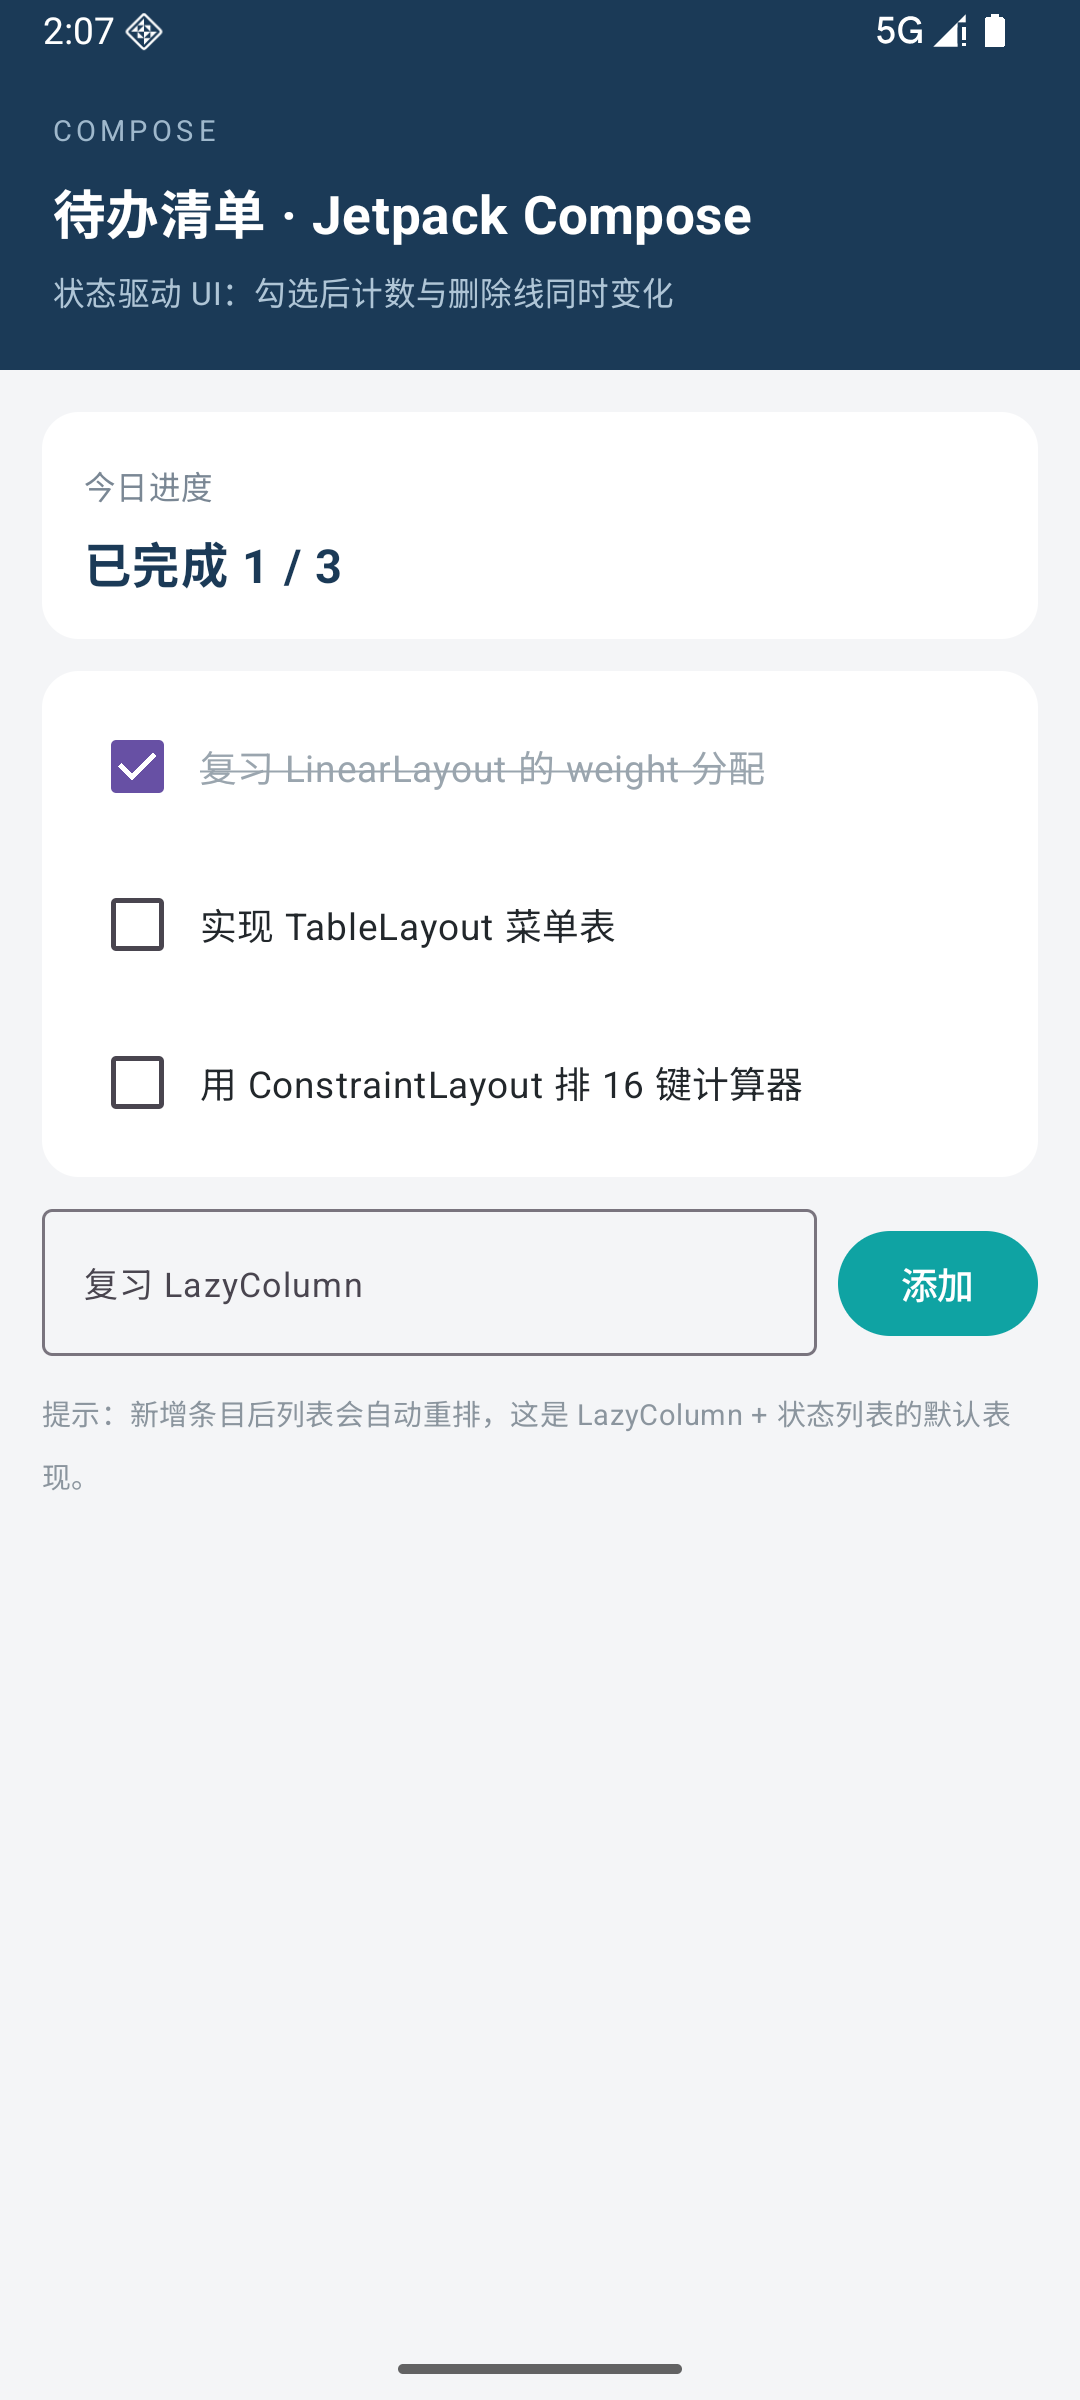
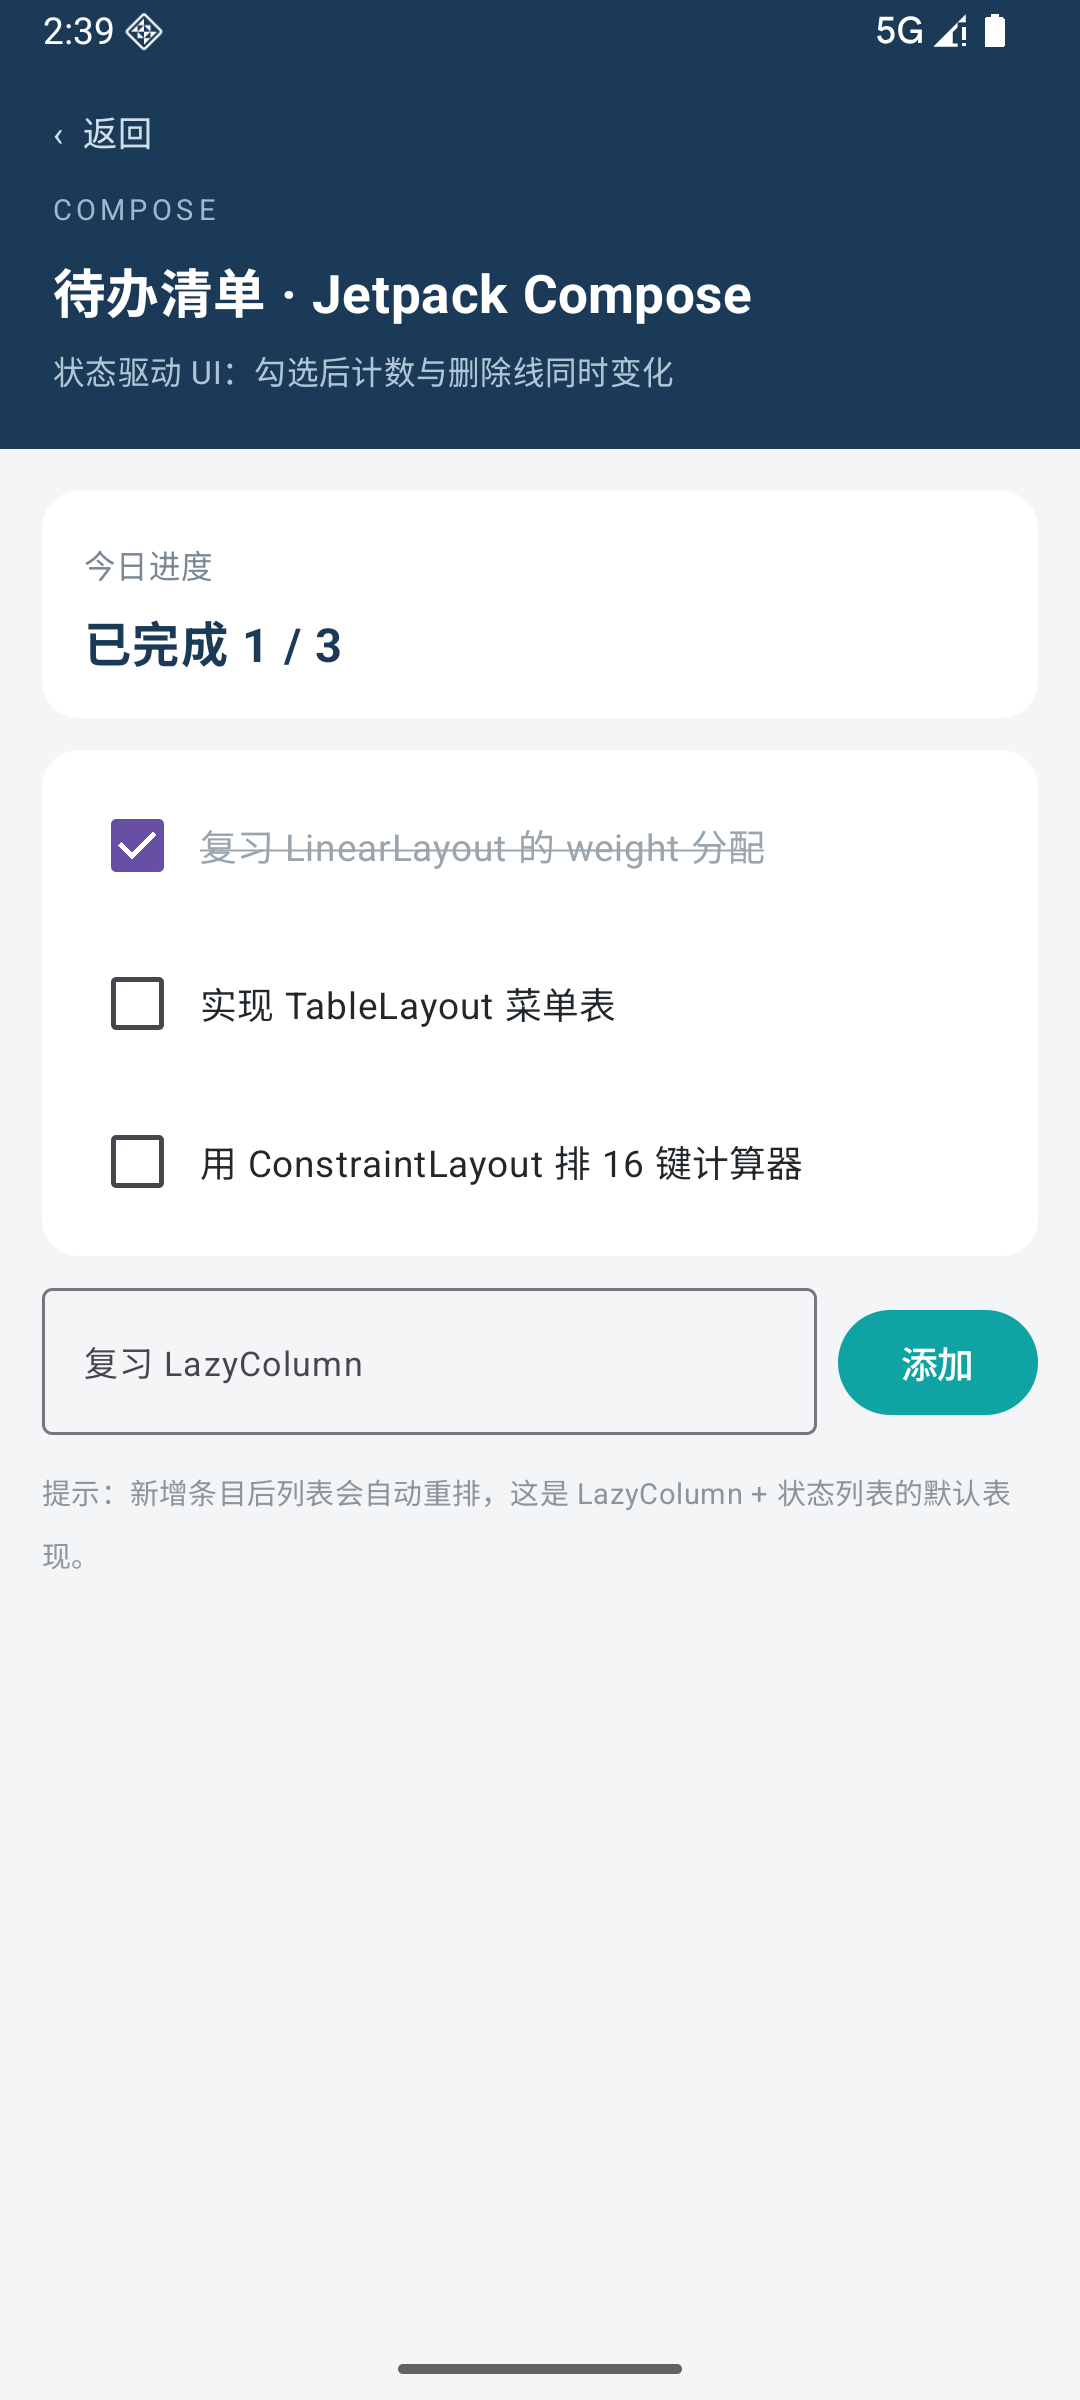
fix(lab2): Compose 页补上「‹ 返回」入口，更新截图

diff --git a/lab2-android-layout/app/src/main/java/com/example/lab2layout/TodoActivity.kt b/lab2-android-layout/app/src/main/java/com/example/lab2layout/TodoActivity.kt
@@ -4,6 +4,7 @@ import android.os.Bundle
 import androidx.activity.ComponentActivity
 import androidx.activity.compose.setContent
 import androidx.compose.foundation.background
+import androidx.compose.foundation.clickable
 import androidx.compose.foundation.layout.Arrangement
 import androidx.compose.foundation.layout.Box
 import androidx.compose.foundation.layout.Column
@@ -50,7 +51,7 @@ class TodoActivity : ComponentActivity() {
         super.onCreate(savedInstanceState)
         setContent {
             MaterialTheme {
-                TodoScreen()
+                TodoScreen(onBack = { finish() })
             }
         }
     }
@@ -62,7 +63,7 @@ private data class TodoItem(
 )
 
 @Composable
-fun TodoScreen() {
+fun TodoScreen(onBack: () -> Unit = {}) {
     val todos = remember {
         mutableStateListOf(
             TodoItem("复习 LinearLayout 的 weight 分配", true),
@@ -87,6 +88,13 @@ fun TodoScreen() {
                 .statusBarsPadding()
                 .padding(start = 20.dp, end = 20.dp, top = 14.dp, bottom = 18.dp)
         ) {
+            Text(
+                text = "‹  返回",
+                color = Color(0xFFCFE0EC),
+                fontSize = 13.sp,
+                modifier = Modifier.clickable(onClick = onBack)
+            )
+            Spacer(Modifier.height(6.dp))
             Text(
                 text = "COMPOSE",
                 color = Color(0xFF9FB8CC),

diff --git a/lab2-android-layout/README.md b/lab2-android-layout/README.md
@@ -67,6 +67,8 @@
 - `doneCount = todos.count { it.done }` 跟着重组自动更新，"已完成 x / y" 与删除线同时变化；
 - 列表用 `LazyColumn`，输入框 + `Button` 用 `Row` 排，新增后自动重排。
 
+注意一项容易被忽略的事：Compose 页的页头是自己在 Kotlin 里画的，**没有 XML 版 `view_header` 里那个返回按钮**，所以「‹ 返回」也得自己补——一个 `Text` 加 `Modifier.clickable(onClick = onBack)`，`onBack` 传 `finish()` 即可。少了这一行，页面就只能靠系统返回键退出。
+
 ## 构建与运行
 
 最快的路径：启动模拟器后，直接双击本目录下的 `run-debug.bat`（先 `--stop` 清守护进程，再 `installDebug`，最后重启 App 并打印 PID）。脚本输出里 PID 每次都不一样，就说明装的是新包。
